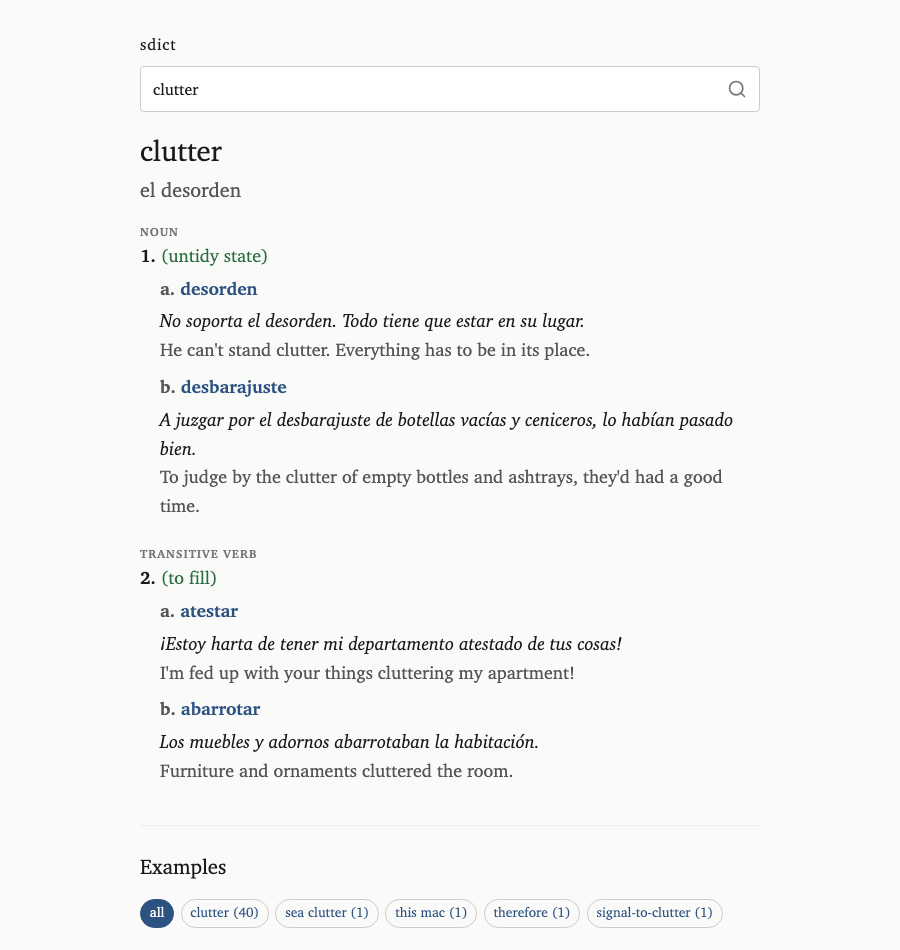
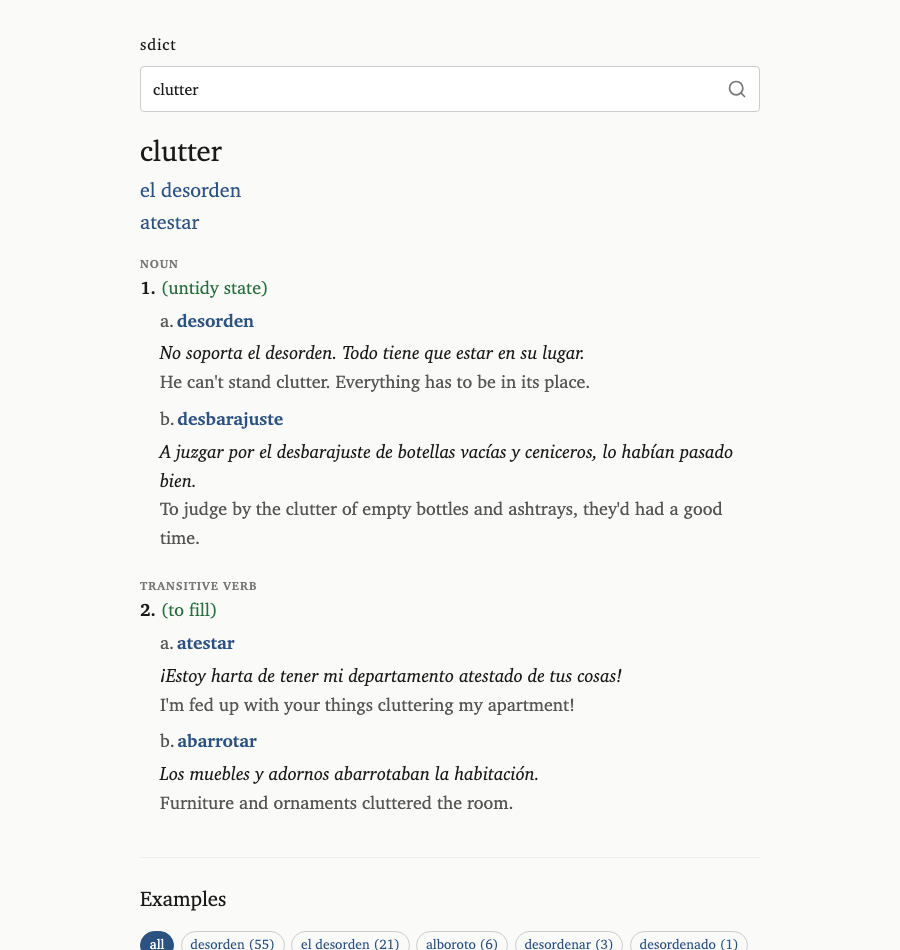
feat: show both quick definitions as links (#14)

Changed region(s): [[0.1556, 0.1832, 0.8089, 0.8547], [0.1556, 0.8853, 0.84, 1.0]]

diff --git a/templates/results.html b/templates/results.html
@@ -7,9 +7,9 @@
   <h1>{{ term.headword }}</h1>
 </div>
 
-{% if let Some(qd) = term.quick_definition %}
-<p class="quick-def color-secondary">{{ qd }}</p>
-{% endif %} {% for hw in term.headword_groups %}
+{% for qd in term.quick_definitions %}
+<p class="quick-def color-secondary"><a href="/translate/{{ qd|urlencode }}">{{ qd }}</a></p>
+{% endfor %} {% for hw in term.headword_groups %}
 {% if term.headword_groups.len() > 1 %}
 <h2 class="subheadword">{{ hw.subheadword }}</h2>
 {% endif %}

diff --git a/templates/base.html b/templates/base.html
@@ -197,6 +197,9 @@
 
       .quick-def {
         font-size: 1.25rem;
+      }
+
+      .quick-def:last-of-type {
         margin-bottom: 1rem;
       }
 

diff --git a/src/spanishdict.rs b/src/spanishdict.rs
@@ -58,7 +58,7 @@ pub async fn translate(client: &Client, base_url: &str, term: &str) -> Result<Te
     Ok(Term {
         query: term.to_string(),
         headword: parsed.headword.unwrap_or_else(|| term.to_string()),
-        quick_definition: parsed.quick_definition,
+        quick_definitions: parsed.quick_definitions,
         headword_groups: parsed.headword_groups,
         examples,
         lang_from: lang_from.to_string(),
@@ -95,7 +95,7 @@ impl From<reqwest::Error> for SdictError {
 pub struct Term {
     pub query: String,
     pub headword: String,
-    pub quick_definition: Option<String>,
+    pub quick_definitions: Vec<String>,
     pub headword_groups: Vec<HeadwordGroup>,
     pub examples: Vec<CorpusExample>,
     pub lang_from: String,
@@ -146,7 +146,7 @@ pub struct CorpusExample {
 
 #[derive(Debug, Clone)]
 pub struct ParsedDefinitions {
-    pub quick_definition: Option<String>,
+    pub quick_definitions: Vec<String>,
     pub headword: Option<String>,
     pub headword_groups: Vec<HeadwordGroup>,
     /// Language of the search term: "es" or "en"
@@ -384,18 +384,25 @@ pub fn parse_definitions(data: &Value) -> ParsedDefinitions {
         }
     }
 
-    let quick_definition = data
[1 lines of base64/hex data omitted]
-        .and_then(|v| v.as_str())
-        .map(|s| s.to_string())
-        .or_else(|| {
-            headword_groups
-                .first()
-                .and_then(|hw| hw.pos_groups.first())
-                .and_then(|pg| pg.senses.first())
-                .and_then(|s| s.translations.first())
-                .map(|t| t.text.clone())
-        });
+    let quickdefs_base = "/resultCardHeaderProps/headwordAndQuickdefsProps";
+    let mut quick_definitions: Vec<String> = ["quickdef1", "quickdef2"]
+        .iter()
+        .filter_map(|key| {
+            data.pointer(&format!("{quickdefs_base}/{key}/displayText"))
+                .and_then(|v| v.as_str())
+                .map(|s| s.to_string())
+        })
+        .collect();
+    if quick_definitions.is_empty()
+        && let Some(fallback) = headword_groups
+            .first()
+            .and_then(|hw| hw.pos_groups.first())
+            .and_then(|pg| pg.senses.first())
+            .and_then(|s| s.translations.first())
+            .map(|t| t.text.clone())
+    {
+        quick_definitions.push(fallback);
+    }
 
     let headword = data
[1 lines of base64/hex data omitted]
@@ -408,7 +415,7 @@ pub fn parse_definitions(data: &Value) -> ParsedDefinitions {
         .map(|s| s.to_string());
 
     ParsedDefinitions {
-        quick_definition,
+        quick_definitions,
         headword,
         headword_groups,
         lang_from,

diff --git a/tests/spanishdict_test.rs b/tests/spanishdict_test.rs
@@ -53,7 +53,7 @@ fn test_parse_definitions_from_fixture() {
     let data = extract_sd_data(&html).unwrap();
     let parsed = parse_definitions(&data);
 
-    assert!(parsed.quick_definition.is_some());
+    assert!(!parsed.quick_definitions.is_empty());
     assert_eq!(parsed.headword.as_deref(), Some("comer"));
     assert!(!parsed.headword_groups.is_empty());
 
@@ -88,7 +88,7 @@ fn test_parse_definitions_empty_neodict() {
         }
     });
     let parsed = parse_definitions(&data);
-    assert!(parsed.quick_definition.is_none());
+    assert!(parsed.quick_definitions.is_empty());
     assert!(parsed.headword_groups.is_empty());
 }
 
@@ -266,7 +266,7 @@ async fn test_translate_with_wiremock() {
 
     assert_eq!(term.query, "comer");
     assert_eq!(term.headword, "comer");
-    assert!(term.quick_definition.is_some());
+    assert!(!term.quick_definitions.is_empty());
     assert!(!term.headword_groups.is_empty());
     assert!(!term.examples.is_empty());
 }
